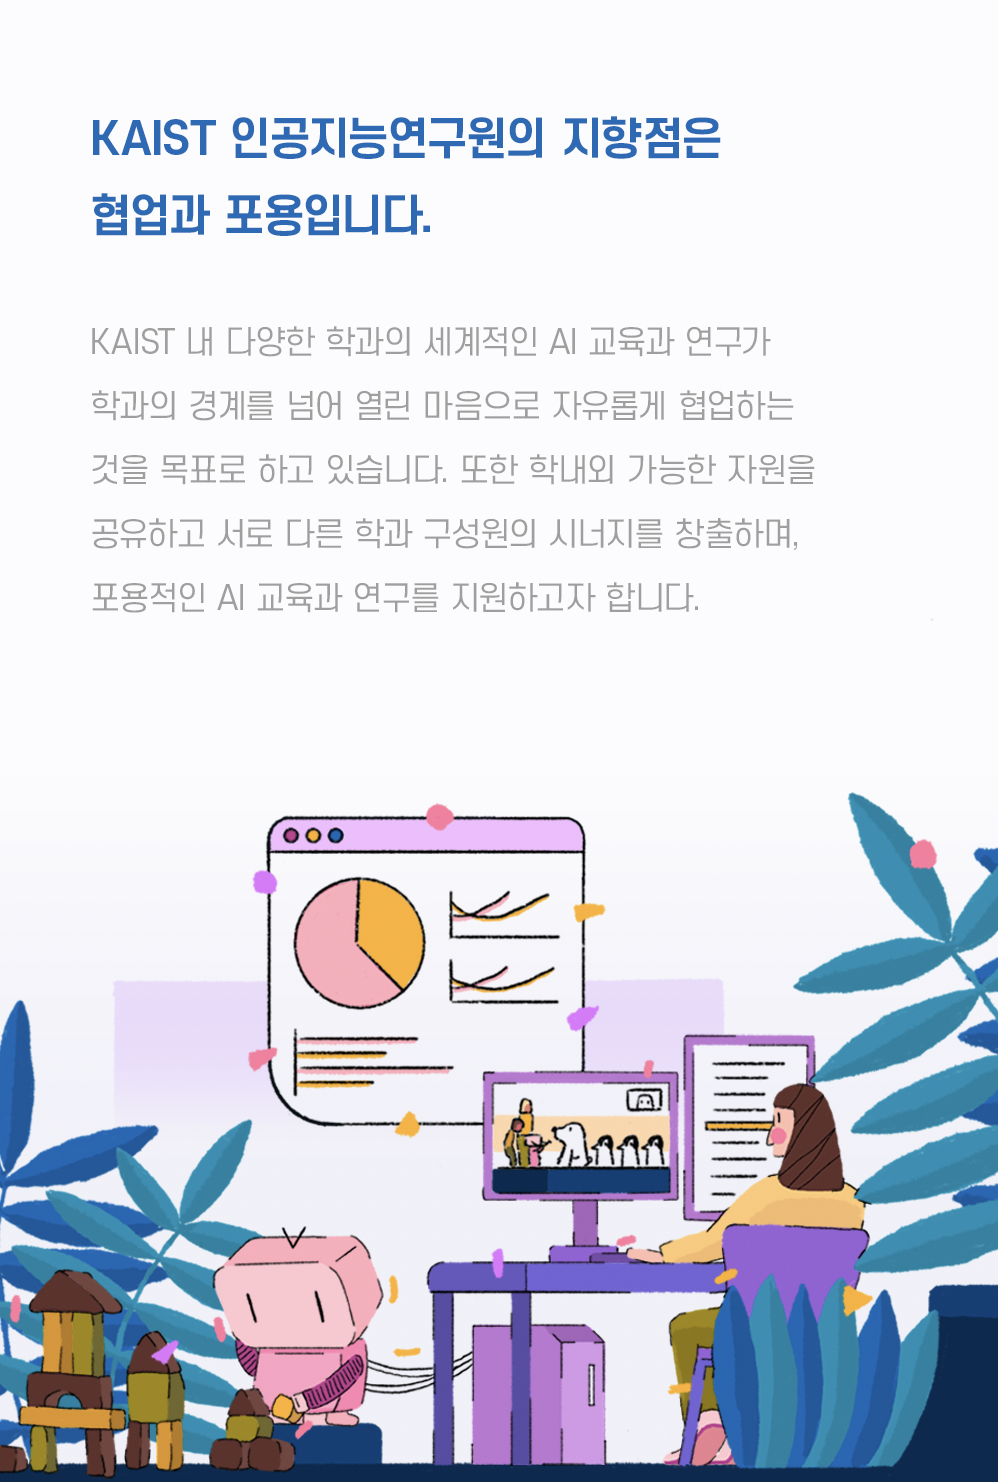
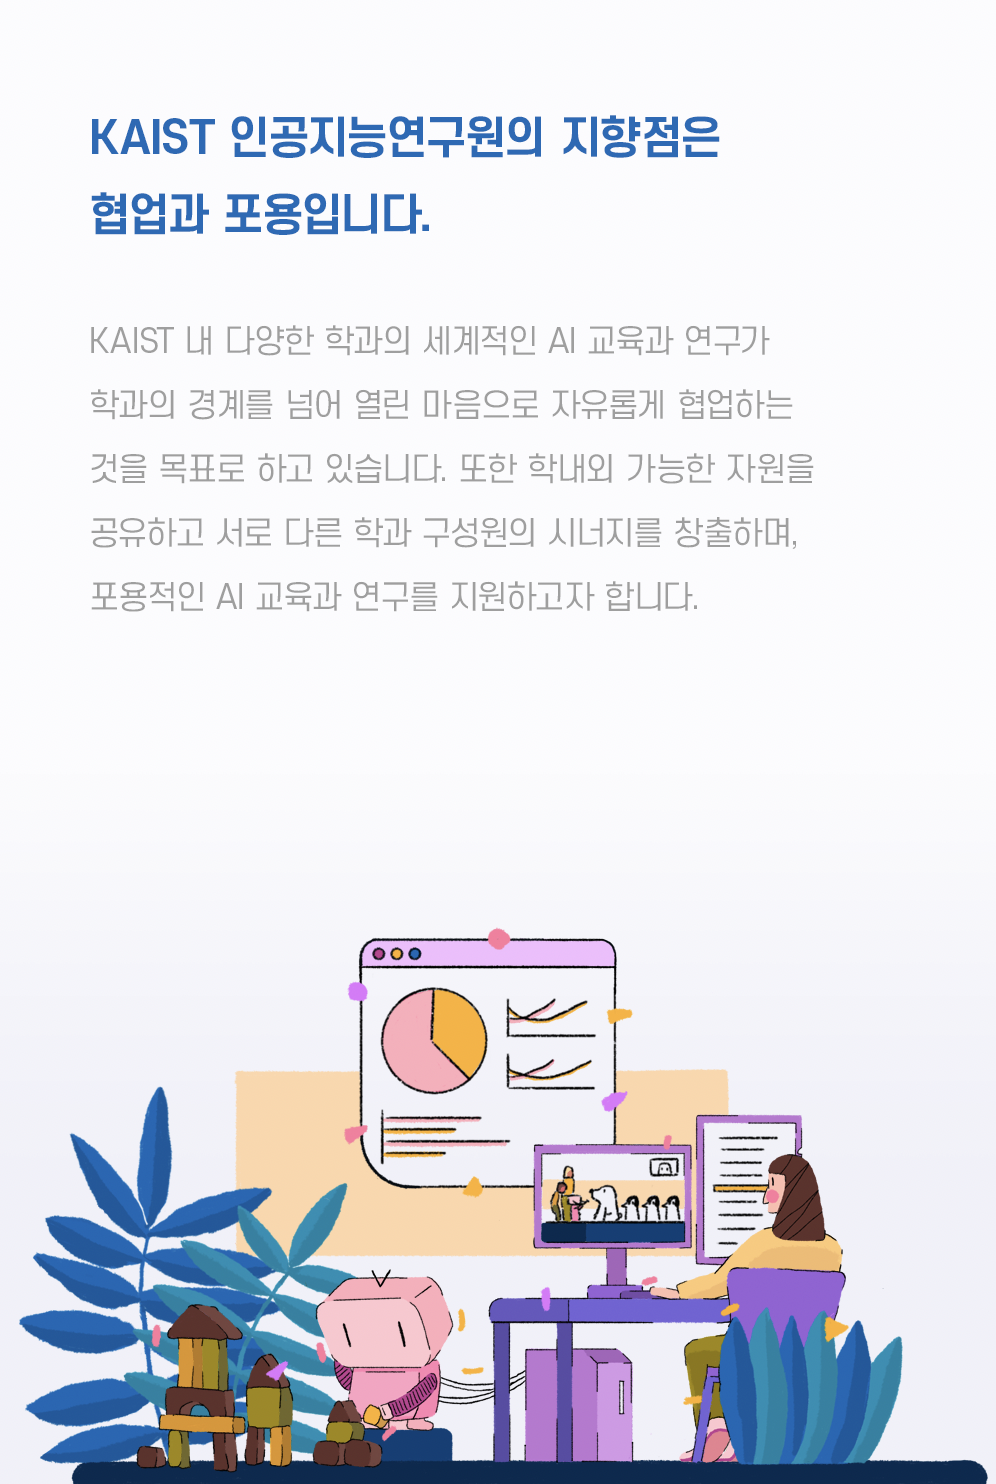
responsive header and footer

diff --git a/assets/main.scss b/assets/main.scss
@@ -74,7 +74,7 @@ a {
 	padding:0 24px;
 
 	.group-dropdown {
-		margin: 0 20px;
+		margin: 0 10px;
 		height: 60px;
 	}
 	.page-dropdown {
@@ -119,12 +119,22 @@ a {
 
 
 
-@media screen and (max-width: 1000px) {
+@media screen and (max-width: 600px) {
 	.site-header {
 		border-top: none;
+		height:70px;
 		.wrapper {
 			max-width: 100%;
 			padding: 0 16px;
+			a.logoAnchor {
+				flex:1 1 auto;
+				#logo {
+					width:50px;
+					// height: auto;
+					z-index: 150;
+					margin: 6px 0 0 6px;
+				}
+			}
 		}
 	}
 
@@ -132,7 +142,7 @@ a {
 		position: absolute;
 		top: 0;
 		right: 0;
-		padding: 9px 15px;
+		// padding: 9px 15px;
 		background-color: white;
 		border: none;
 	}
@@ -152,11 +162,11 @@ a {
 		width: 36px;
 		height: 26px;
 		line-height: 0;
-		padding-top: 10px;
+		padding-top: 0px;
 		text-align: center;
 
 		> svg {
-			fill: $grey-color-dark;
+			fill: #888 !important;
 		}
 	}
 
@@ -231,7 +241,13 @@ a {
 			margin: 0px;
 			img.bicycle_riding {
 				position:absolute; bottom:-1px; left:40px; z-index:100;
-				width:320px; 
+				@media screen and (max-width: 600px) {
+					width:200px; 
+				}
+				@media screen and (min-width: 600px) {
+					width:300px; 
+				}
+				
 				vertical-align: bottom;
 				-webkit-filter: drop-shadow(-5px -5px 5px rgba(0,0,0,0.1));
   				filter: drop-shadow(-5px -5px 5px rgba(0,0,0,0.1));
@@ -267,7 +283,13 @@ a {
 
 // Main page
 .page-content {
-	padding-top:100px;
+	@media screen and (max-width: 600px) {
+		padding-top:70px;
+	}
+	@media screen and (min-width: 600px) {
+		padding-top:100px;
+	}
+	
 }
 
 // #home-content {
